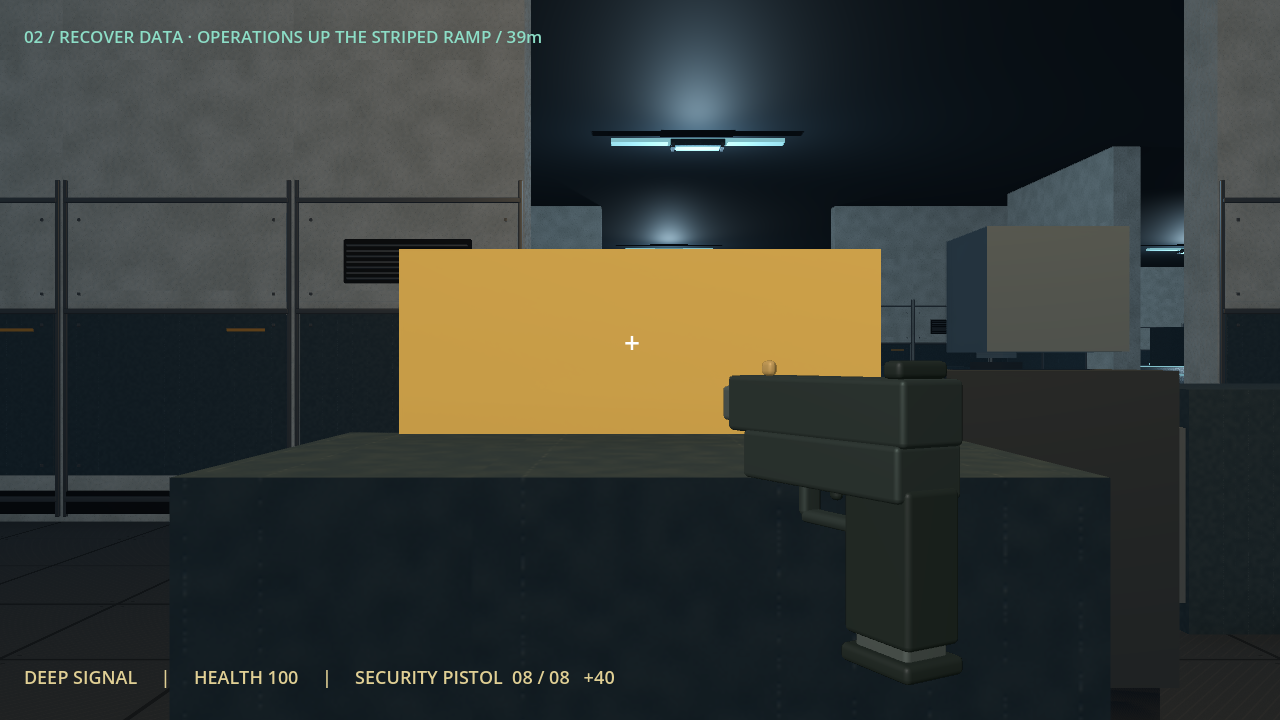
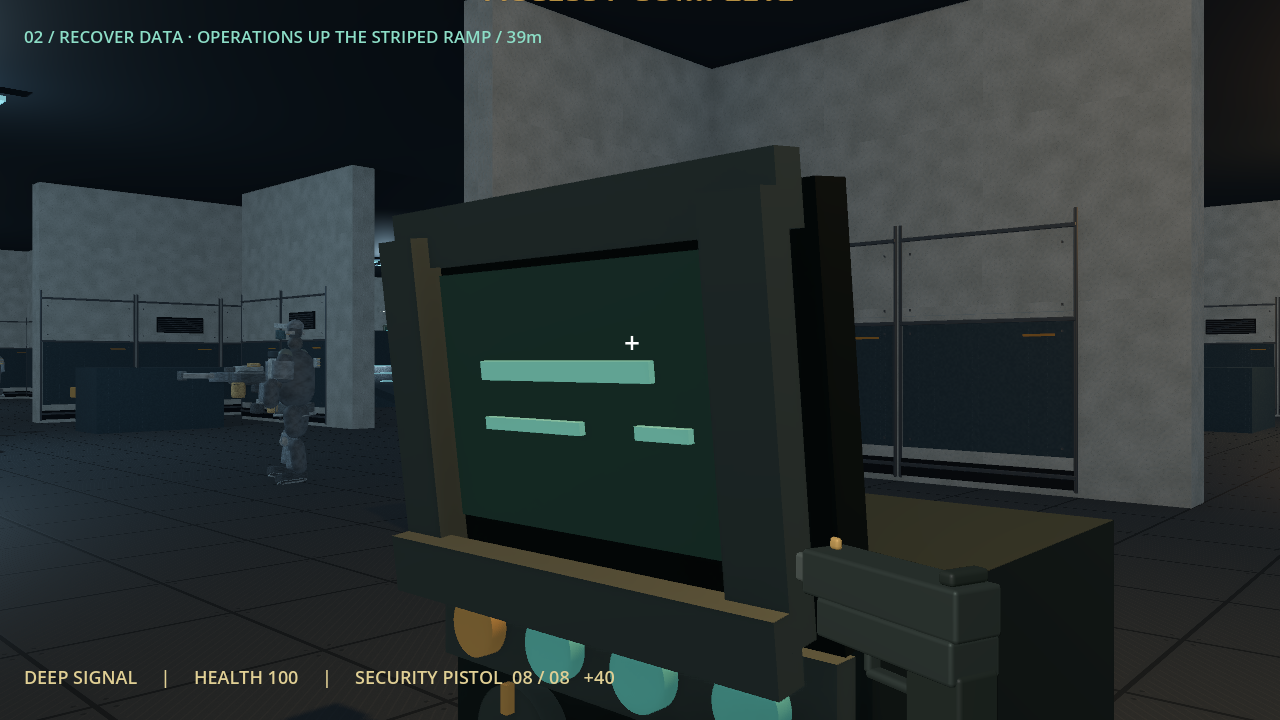
Polish Deep Signal demo visuals and add direct launcher

diff --git a/docs/godot/deep-signal-visual-benchmark.md b/docs/godot/deep-signal-visual-benchmark.md
@@ -1,8 +1,12 @@
 # Deep Signal desktop visual benchmark
 
-Branch: `feature/deep-signal-visual-benchmark`, based on GitHub main `c9d00c6`. The user's preferred Deep Signal mission is the showcase. This is the first environment/material/lighting benchmark toward a more modern presentation; character and first-person animation production remain separate milestones.
+Branch: `feature/deep-signal-modern-demo`, based on GitHub main `6bac7ec`. The user's preferred Deep Signal mission is the showcase. This is a focused security-room and first-person presentation pass on top of the environment/material/lighting benchmark; character and first-person animation production remain separate milestones.
 
 ## View and play
+
+For the local presentation, double-click **Play Deep Signal.cmd** in the repository root. It opens the desktop Forward+ showcase directly using the installed Godot executable. The launcher path was inspected; the scene was executed through the graphical benchmark below. Rehearse on the presentation display before the demo. P/Esc pauses, F5 retries, and E operates the Security terminal after approaching it. This is the native Godot demo; the GitHub Pages link still opens the browser reference.
+
+The final cover pass adds original recessed-looking face plates, metal frame strips, latch markings and amber identifiers to existing cover blocks using three instanced batches. The visual skin extends only millimeters beyond the original bodies; collision, cover points and navigation remain unchanged. Final graphical checks passed 21/21 without script errors, and matching captures were regenerated and inspected. The latest fixed Security sample measured 49.3 FPS / 20.27 ms mean / 22.04 ms p95 at 1280×720 on Adreno X1-85 (AI frozen, 180 frames); this is not a live-combat performance measurement.
 
 The benchmark is an **opt-in scene**. Ordinary project F5 and the hosted game still use the existing main scene. The benchmark starts Deep Signal immediately with its eight actors, current security director, objectives, pickups, ammunition and retry rules.
 
@@ -39,6 +43,18 @@ The benchmark HUD moves health/ammo to the lower edge and keeps objective/E guid
 
 No external character or weapon asset was used. The runtime mesh and muted industrial material palette are generated in `scripts/deep_signal_enemy_visual.gd`; gameplay collision and AI remain in `scripts/deep_signal_enemy.gd`.
 
+The next character pass adds a deterministic, seamless grayscale grain texture to the guard's merged vertex-colored armor and uniform, reuses it as a subtle roughness map, and rounds exposed armor edges. Texture is generated and cached at runtime; beveled parts stay merged into the existing animated surfaces. No external asset or extra mesh surface was added. This adds surface breakup and catches the lighting on edges; it does not replace the planned rigged character or coordinated combat animation.
+
+## Security-console and first-person polish
+
+For the Security objective, both box-only terminal visuals now use the existing original `scenes/industrial_console.tscn` asset. It keeps the previous terminal collision shape, interaction position/range, device progression and navigation data; the hidden legacy housing remains the tested physical body. Amber and cyan screens use a dark face with brighter status marks. A successful interaction changes its label to `COMPLETE` and the screen to muted green, while retry rebuilds the ready state. No external asset was added.
+
+The isolated weapon camera now follows the gameplay camera's interpolated aim FOV, preventing a mismatch when zooming. The sidearm is smaller and sits lower/right so the central sightline, objective prompt and terminal remain visible. Its ammo, damage, timing, targeting, animation state, pause and reset behavior are unchanged.
+
+New captures: [terminal approach](visual-benchmark/after-forward_plus-terminal-approach.png), [ready console](visual-benchmark/after-forward_plus-terminal-ready.png), and [completed console](visual-benchmark/after-forward_plus-access-used.png). These are staged 1280×720 screenshots with frozen AI; they show presentation and interaction feedback, not a full combat playthrough.
+
+Actual checks on Godot 4.7.2 / Adreno X1-85: the graphical Forward+ visual benchmark passed **21/21**, including matching room collision/navigation, both console visuals without added colliders, dark-screen/readout contrast, blocked and successful interaction, pause timing and retry reset. The headless visual benchmark passed **13/13**. Tactical movement passed **20 checks**; its captured-mouse-handler check was skipped because headless Godot cannot provide a captured graphical mouse. The graphical benchmark auto-resumes after its initial focus-loss pause so scripted captures and interactions can run while the window is unattended; the game's regular focus-loss pause behavior is unchanged. Godot logged that this restricted session could not write `user://` logs or shader cache; these did not prevent the checks from passing.
+
 ## Matching captures
 
 All comparisons use identical 1280×720 camera positions and the final assets. Scripted capture freezes enemy physics and visits entry, Security, Maintenance and Operations; Operations is a visual inspection viewpoint, not evidence of completing its objective sequence.
@@ -73,7 +89,8 @@ Each final report measures 180 wall-clock process-frame intervals after a 90-phy
 - Checks compare original vs decorated collision shapes/transforms, cover points and navigation route; retain all eight actors; verify instancing, blocked/unblocked objective interaction, actual reload/clock pause and retry rebuild/reset.
 - Existing `tactical_operation_test.gd`: **28/28** headless, including physical direct/alternate routes, elevated data/extraction, shotgun, switching, death/retry and original campaign entry.
 - Final running captures inspected for scale, panel/vent visibility, materials, lighting and HUD/E guidance. This is scripted graphical validation, not a full human combat playthrough.
-- After the guard visual iteration, the graphical benchmark passed **15/15** on Forward+ and the existing `deep_signal_enemy_test.gd` passed **16/16** headlessly. Collision, cover and navigation comparisons remain unchanged. The latest static capture sample with the new guard model reported **51.0 FPS** and **1,052 draw calls** on the same Adreno X1-85 setup; this sample is variable and indicates the character presentation still needs performance profiling before it should be considered a shipped visual default.
+- After the guard visual iteration, the graphical benchmark passed **15/15** on Forward+ and the existing `deep_signal_enemy_test.gd` passed **16/16** headlessly. That historical static capture reported **51.0 FPS** and **1,052 draw calls** on the Adreno X1-85.
+- The console/weapon/guard-surface polish run passed **21/21** graphically. Its 180-frame static Security sample reported **50.3 FPS** and **1,142 draws** at 1280×720 on the same GPU. Treat this as a variable, single-scene regression reference rather than a combat guarantee; no sustained combat or browser frame-rate test was run.
 
 Reproduce: `& $godotBin --headless --path .\godot --editor --import --quit`, then `& $godotBin --headless --path .\godot --script res://tests/visual_benchmark_test.gd`. For captures/performance use the test script with the renderer flags from the launch command; append `-- --benchmark-baseline` for comparison.
 
